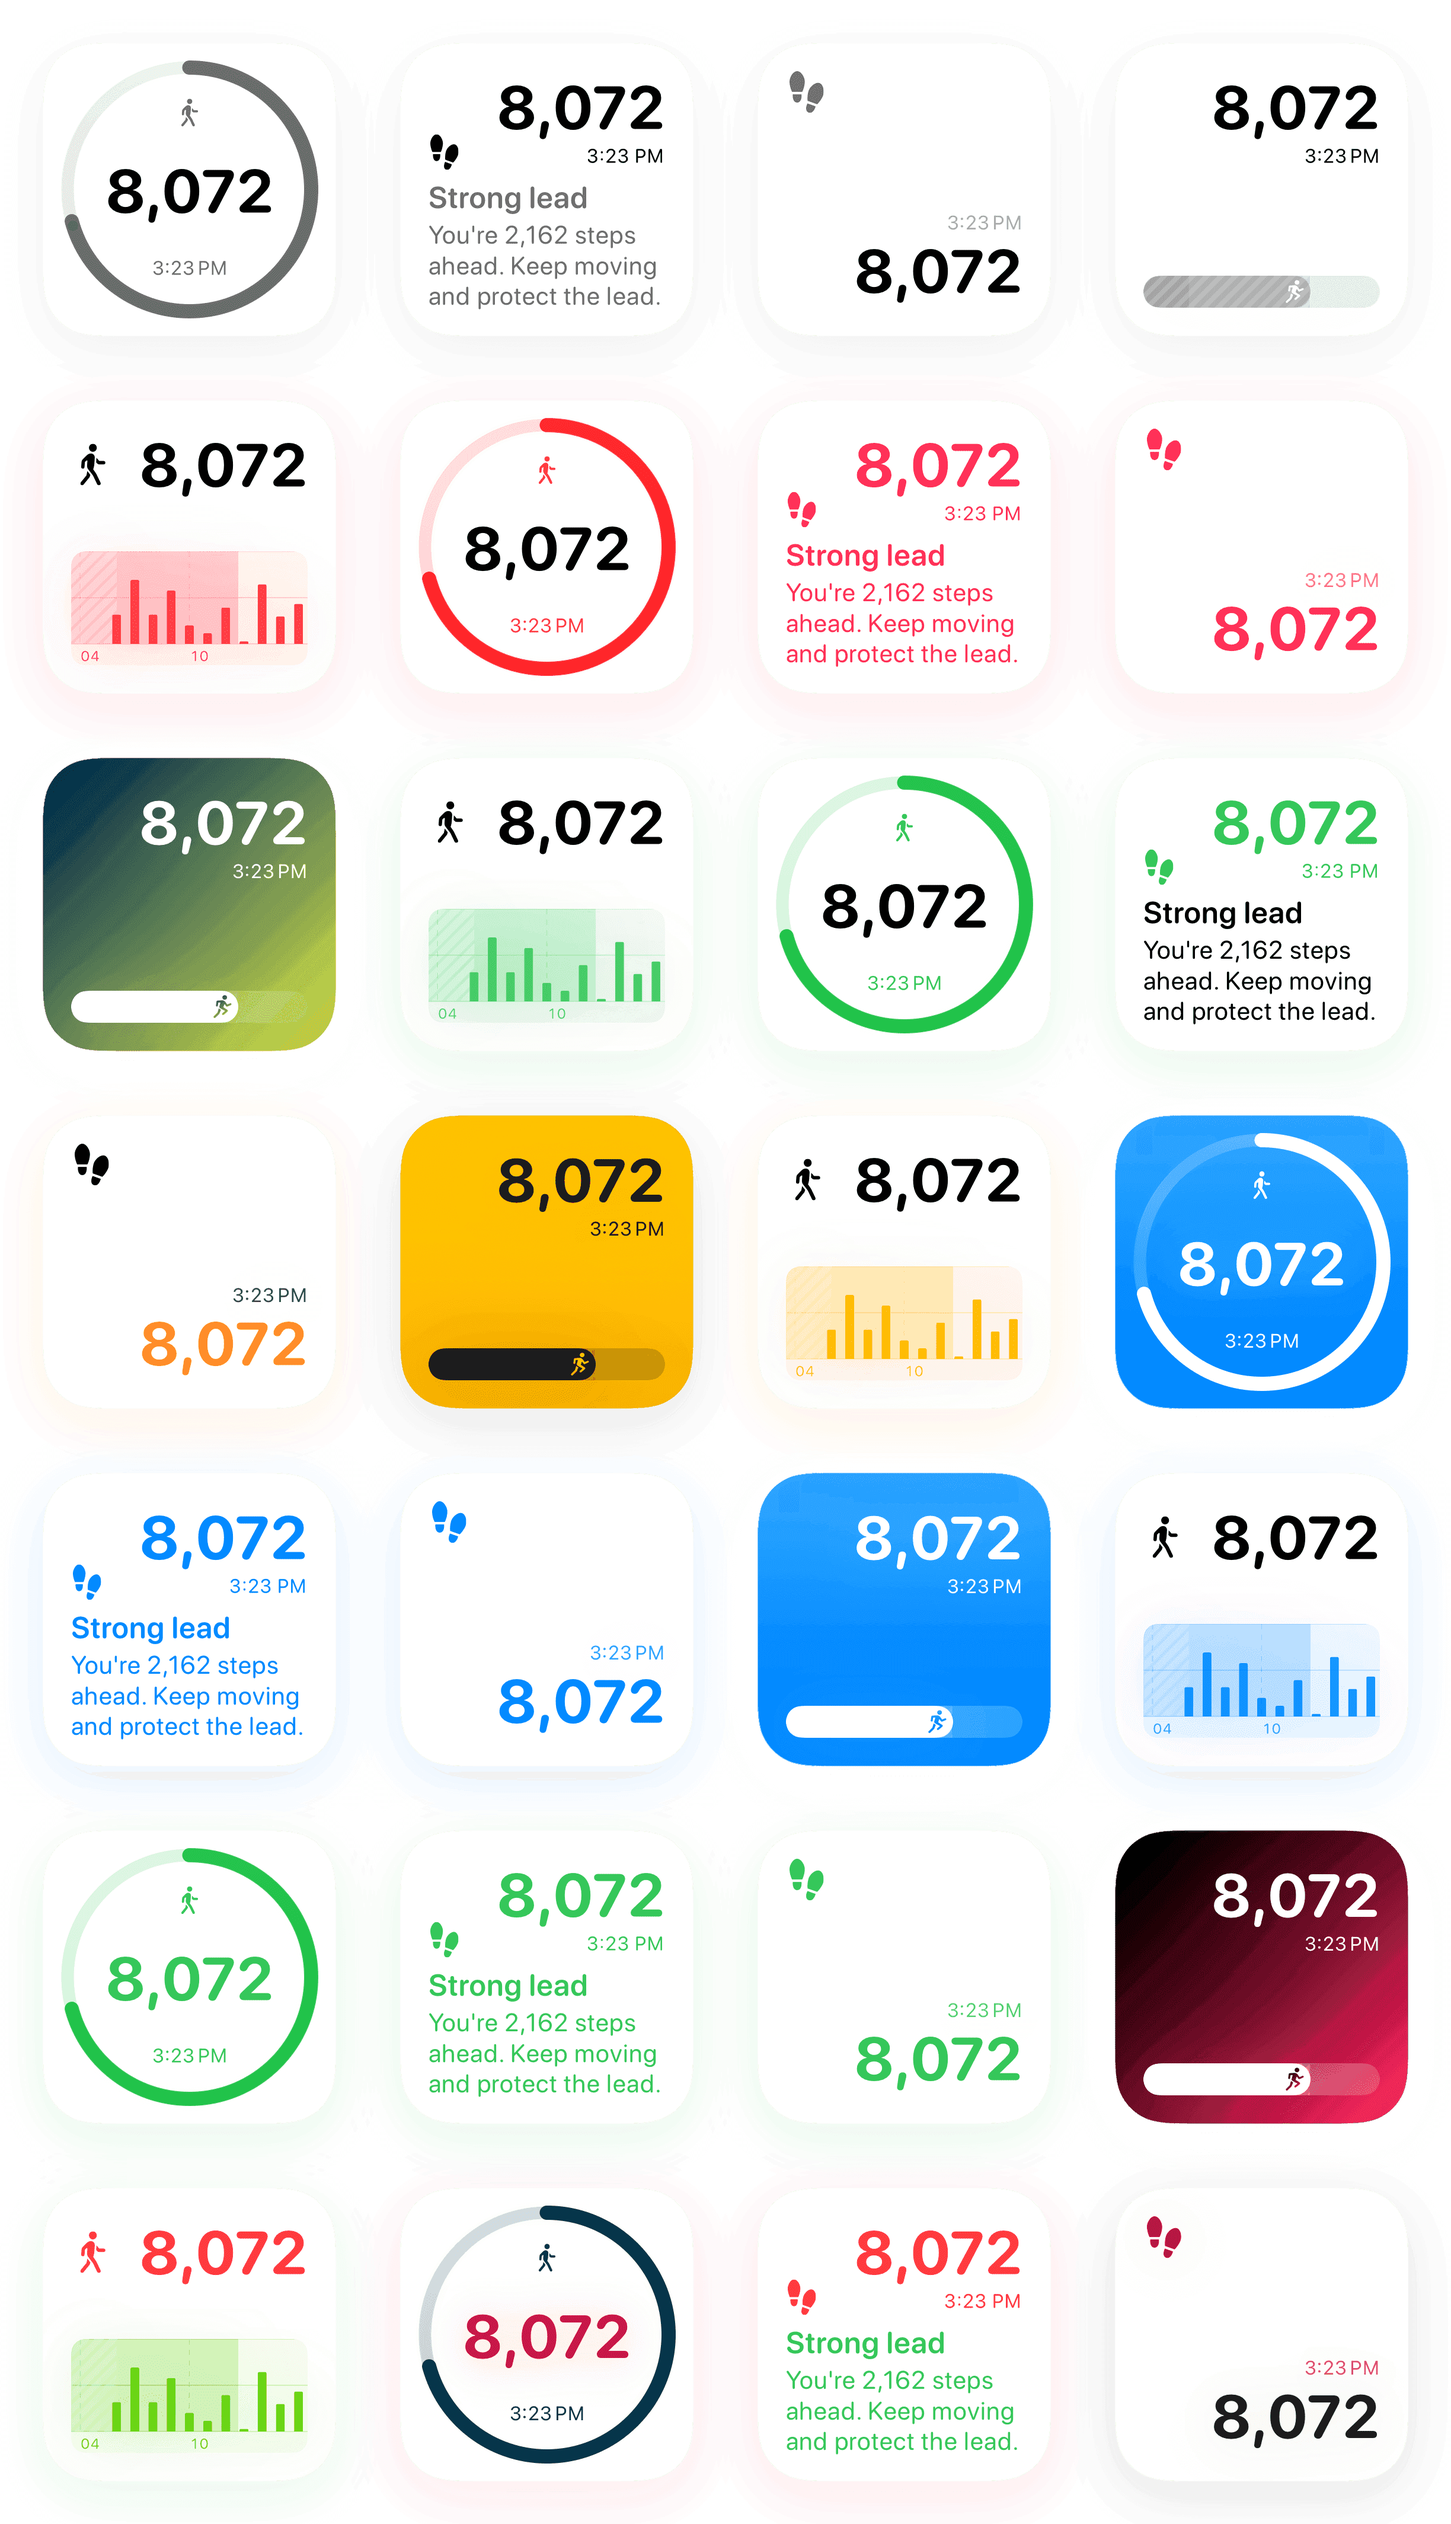
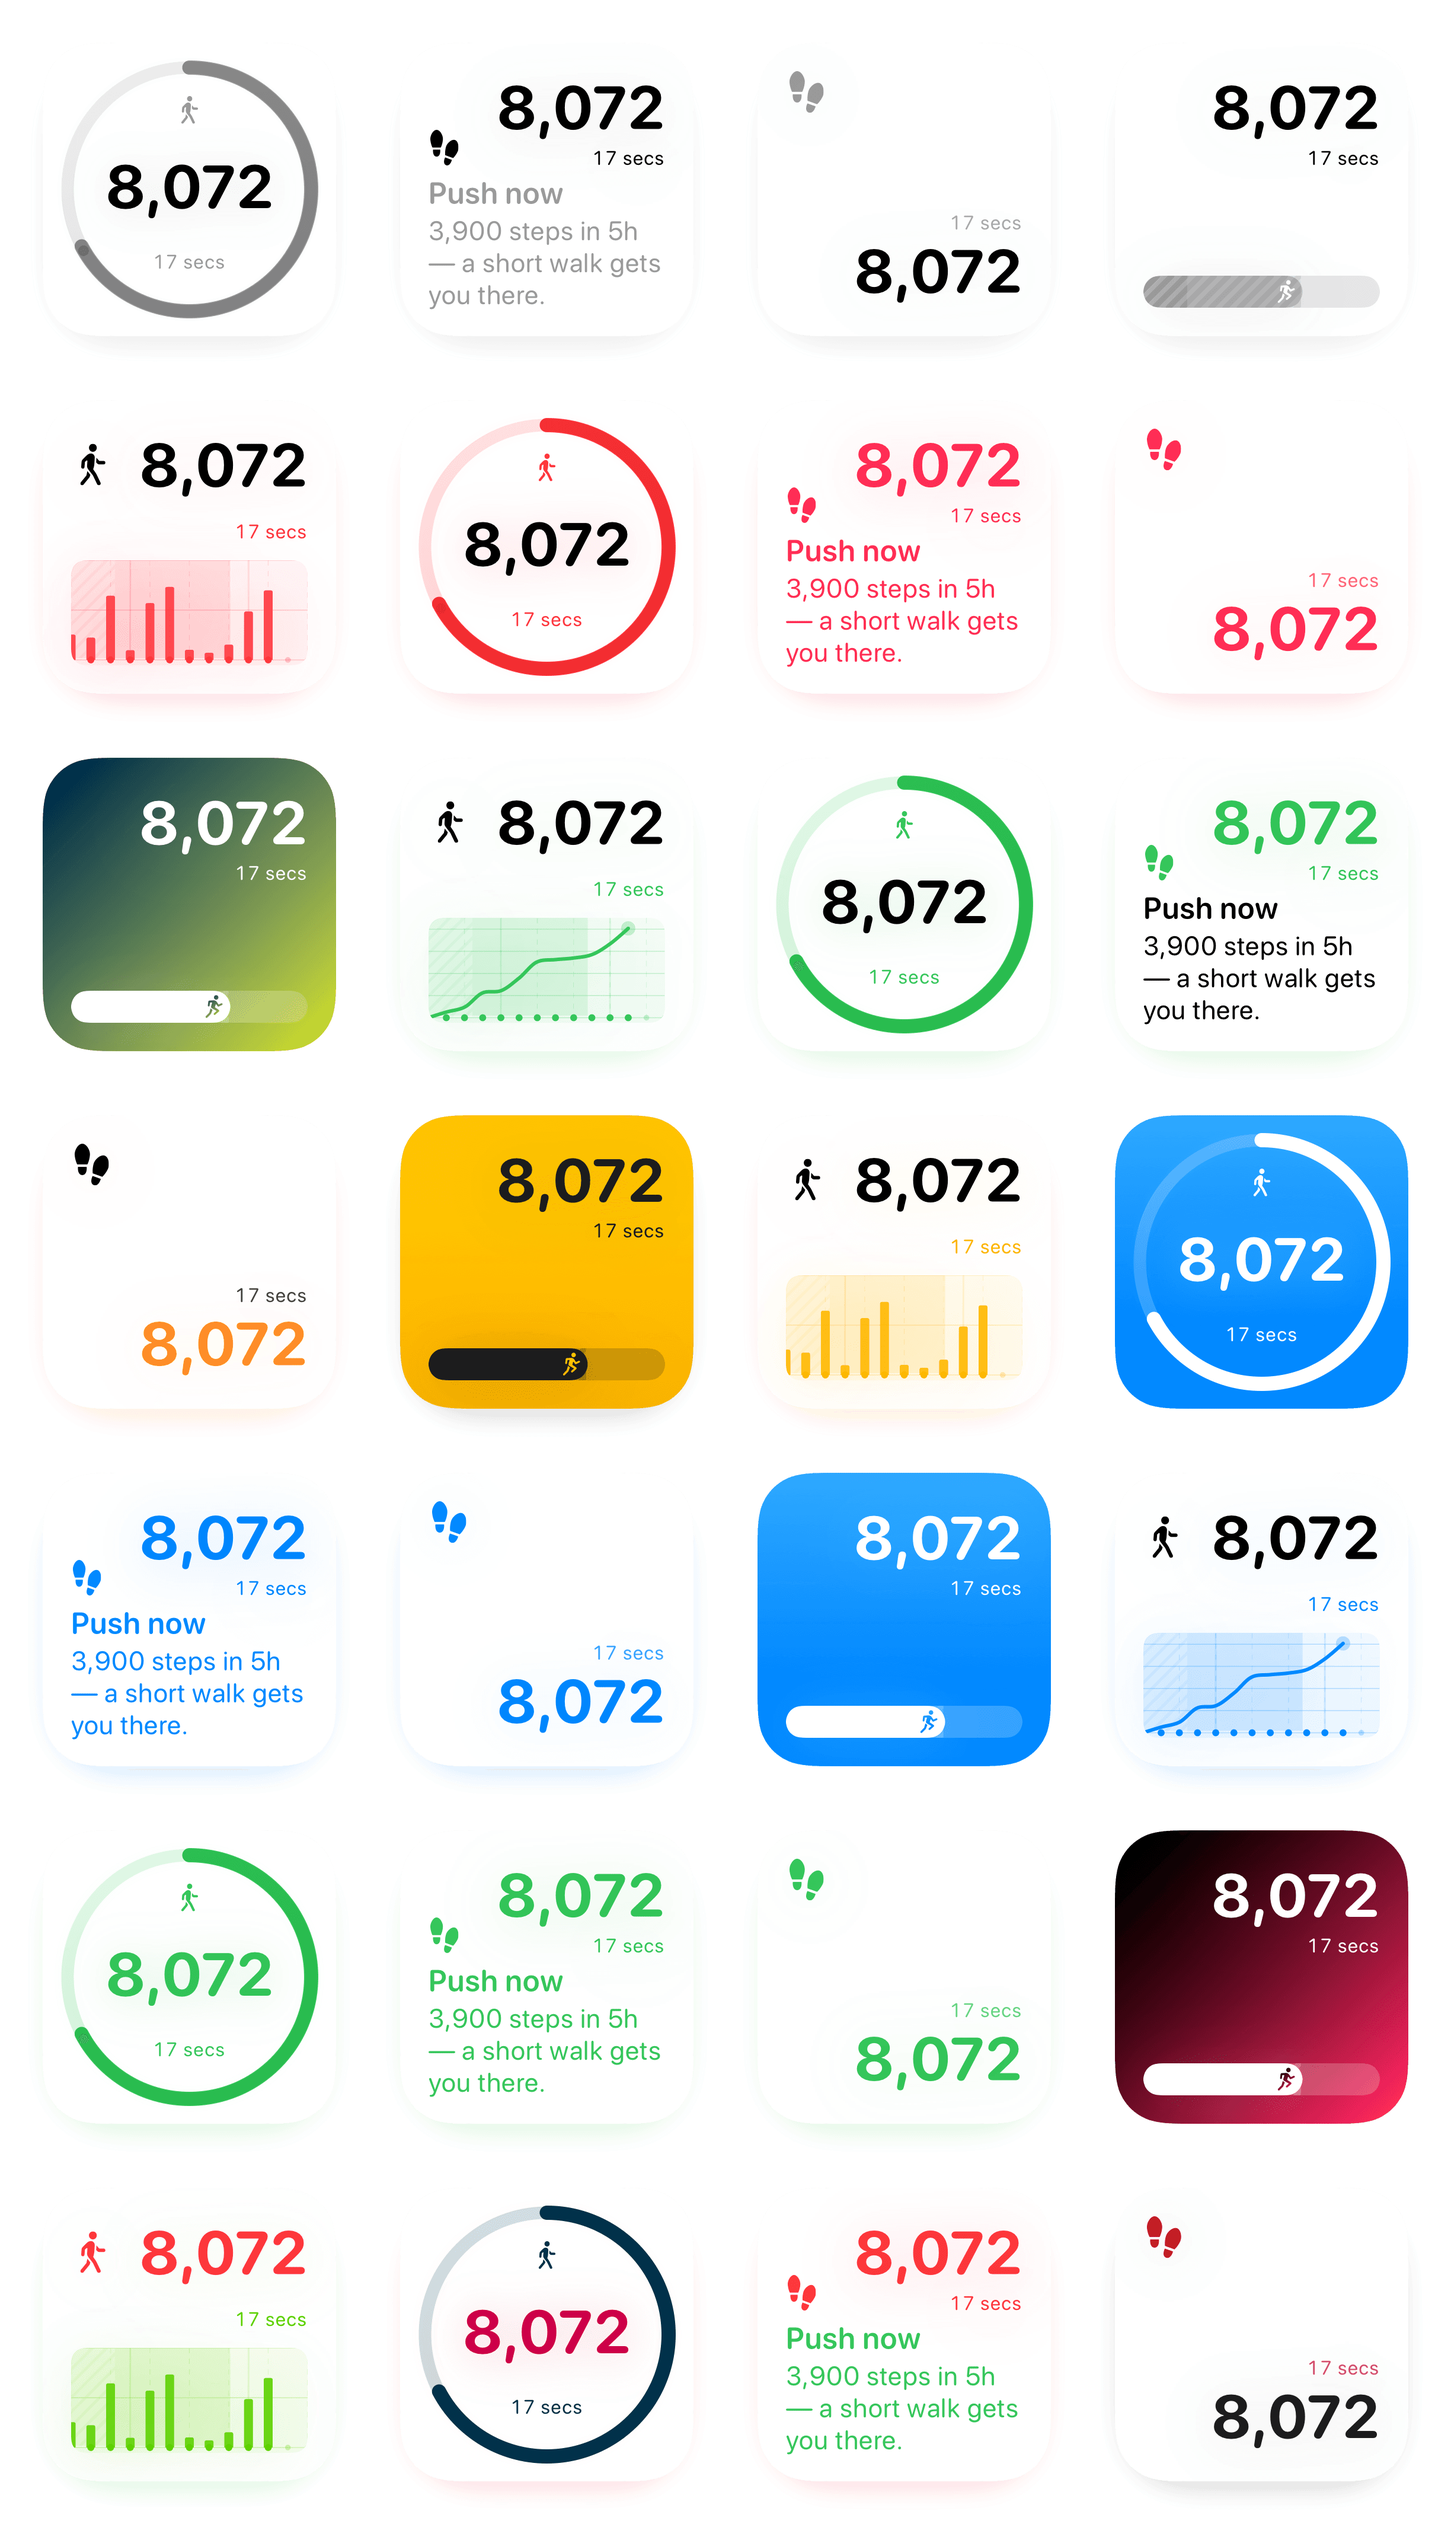
Update image

diff --git a/scripts/post-deploy.js b/scripts/post-deploy.js
@@ -1,5 +1,5 @@
 const siteUrl = process.env.NEXT_PUBLIC_SITE_URL || 'https://stepswidget.app'
-const secret = process.env.INDEXNOW_SUBMIT_SECRET || process.env.INDEXNOW_KEY || 'c578ec83f7ae49908bfeb9b9f494de37'
+const secret = process.env.INDEXNOW_SUBMIT_SECRET || process.env.INDEXNOW_KEY || '1ddd539af5b64d15a2ff241b9aa92079'
 
 const submitUrl = `${siteUrl.replace(/\/$/, '')}/api/indexnow/submit?secret=${secret}`
 

diff --git a/app/docs/content/widgets/widget-gallery.md b/app/docs/content/widgets/widget-gallery.md
@@ -2,10 +2,10 @@
 slug: widget-gallery
 title: The widget gallery
 metaTitle: Every Steps Widget for iPhone Home and Lock Screen
-description: All eight Steps widgets — Steps Ring, Timeline, Prompt, Goal Progress, Minimal, and the three Lock Screen accessories — with sizes and what each one shows.
+description: All eight Steps widgets — Steps Ring, Timeline, Prompt, Goal Progress, Minimal, and the three Lock Screen accessories — plus how adaptive refresh keeps them current.
 order: 1
-updated: 2026-07-28
-readingTime: 5 min read
+updated: 2026-08-10
+readingTime: 6 min read
 keywords:
   - iPhone step widget
   - home screen widget steps
@@ -77,6 +77,27 @@ As many as you like, in any combination. Each widget remembers its own style and
 Dragging one widget onto another of the same size creates a stack you can swipe through. Steps reports a relevance score to iOS so it surfaces itself in a Smart Stack at useful moments — when you have been moving in the last couple of hours, and when you are between 70% and just past your goal.
 
 That said, with **Smart Rotate** on, iOS decides what is showing when you glance. If seeing your progress reliably is the point, give the widget a dedicated slot.
+
+## Adaptive widget updates
+
+Widgets do not refresh on a fixed timer. Steps varies how often it asks iOS to redraw, based on how likely the number is to have changed and how likely you are to look at it.
+
+| | iPhone | Apple Watch |
+| --- | --- | --- |
+| Active | about every 5 minutes | about every 5 minutes |
+| Quiet | up to every 30 minutes | up to every 60 minutes |
+
+Three signals push it toward the fast end:
+
+- **You are moving now** — steps recorded in the current stretch.
+- **This hour is usually active for you** — from a learned profile of your own 24 hours.
+- **You usually open the app around now** — a glance at the widget tends to precede the tap, so those hours are kept fresh too.
+
+It weighs the current hour *and the next one*, so the widget speeds up ahead of your usual walk rather than catching up after it. Everything is measured against your own busiest hour rather than an absolute, so a generally quiet day still gets its fast periods.
+
+The Watch has the wider range because its refresh budget is tighter. Spending less on quiet stretches leaves more for the moments you actually raise your wrist.
+
+> **Note:** These are requests, not guarantees — iOS grants widget reloads from a daily budget and can delay any of them to save power. Steps also skips reloads that would change nothing visible: a redraw needs at least 200 steps of change and at least 60 seconds since the last one.
 
 ## Can I put the widget on my Mac?
 

diff --git a/app/docs/content/troubleshooting/widget-not-updating.md b/app/docs/content/troubleshooting/widget-not-updating.md
@@ -27,9 +27,9 @@ Your steps pass through three stages, each on its own schedule. The app explains
 | -------------------------------------------------- | ----------------------------------------------------------------------------------------------------------------------- |
 | **Apple Health** collects your steps               | Shares updates with apps about once an hour                                                                             |
 | **The app** reads Health and hands data to widgets | Every time you open it, plus background refreshes                                                                       |
-| **The widget** redraws                             | Asks about every 3 minutes in active hours, up to every 30 minutes in quiet ones — iOS decides when it actually reloads |
+| **The widget** redraws                             | Asks about every 5 minutes in active hours, up to every 30 minutes in quiet ones — iOS decides when it actually reloads |
 
-Nothing in that chain is instant, and the widget is the least instant part of it. iOS grants each widget a limited daily reload budget to protect battery life, which is why a widget is a recent snapshot rather than a live readout.
+Nothing in that chain is instant, and the widget is the least instant part of it. That cadence is not fixed — it adapts to when you move and when you tend to check, and the Apple Watch stretches further in both directions. See [Adaptive widget updates](/docs/widgets/widget-gallery#adaptive-widget-updates). iOS grants each widget a limited daily reload budget to protect battery life, which is why a widget is a recent snapshot rather than a live readout.
 
 If you want a genuinely live number, that is what [Motion Sensor](/docs/steps-and-data/motion-sensor-and-live-activity) and the Live Activity are for.
 

diff --git a/app/docs/content/widgets/widget-styles.md b/app/docs/content/widgets/widget-styles.md
@@ -68,16 +68,6 @@ What is free and what is paid:
 
 No feature the app needs to function is behind the paywall. Without the purchase you still get the full reminder system and your step count on every surface. The purchase changes appearance only.
 
-## The Customization purchase
-
-It is called **Customization** in the app and on the App Store, and it comes three ways:
-
-- A **one-time purchase** that never expires
-- A **monthly** subscription
-- A **yearly** subscription
-
-A subscription is never required — the one-time purchase unlocks the same thing permanently. Current prices are on the App Store listing; they are deliberately not printed here, because a stale price on a website is worse than no price.
-
 ## Restoring a purchase
 
 Purchases are tied to your Apple Account, not to an app account — Steps has no accounts. On a new device or after a reinstall, sign in with the same Apple Account and use the restore option in the app.
